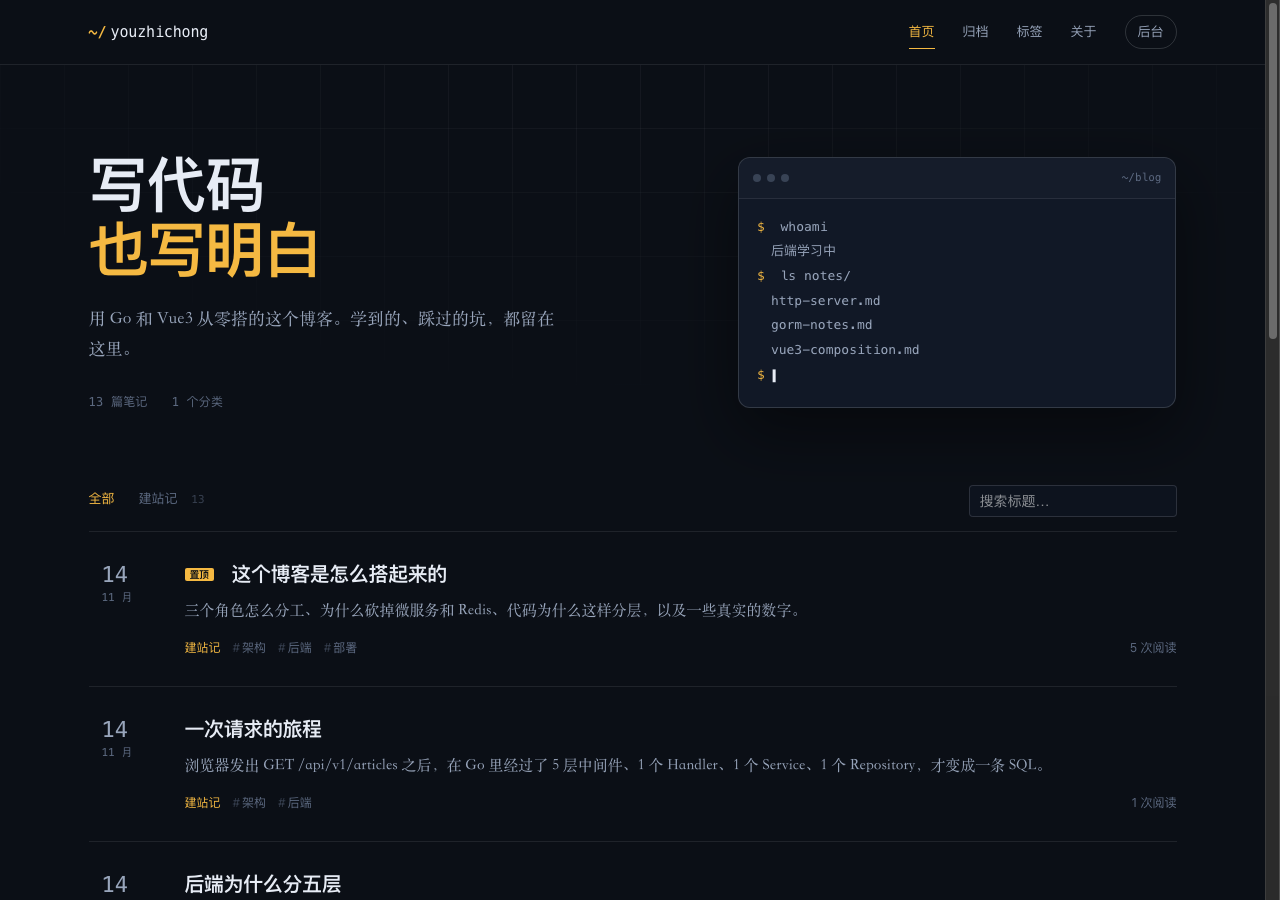
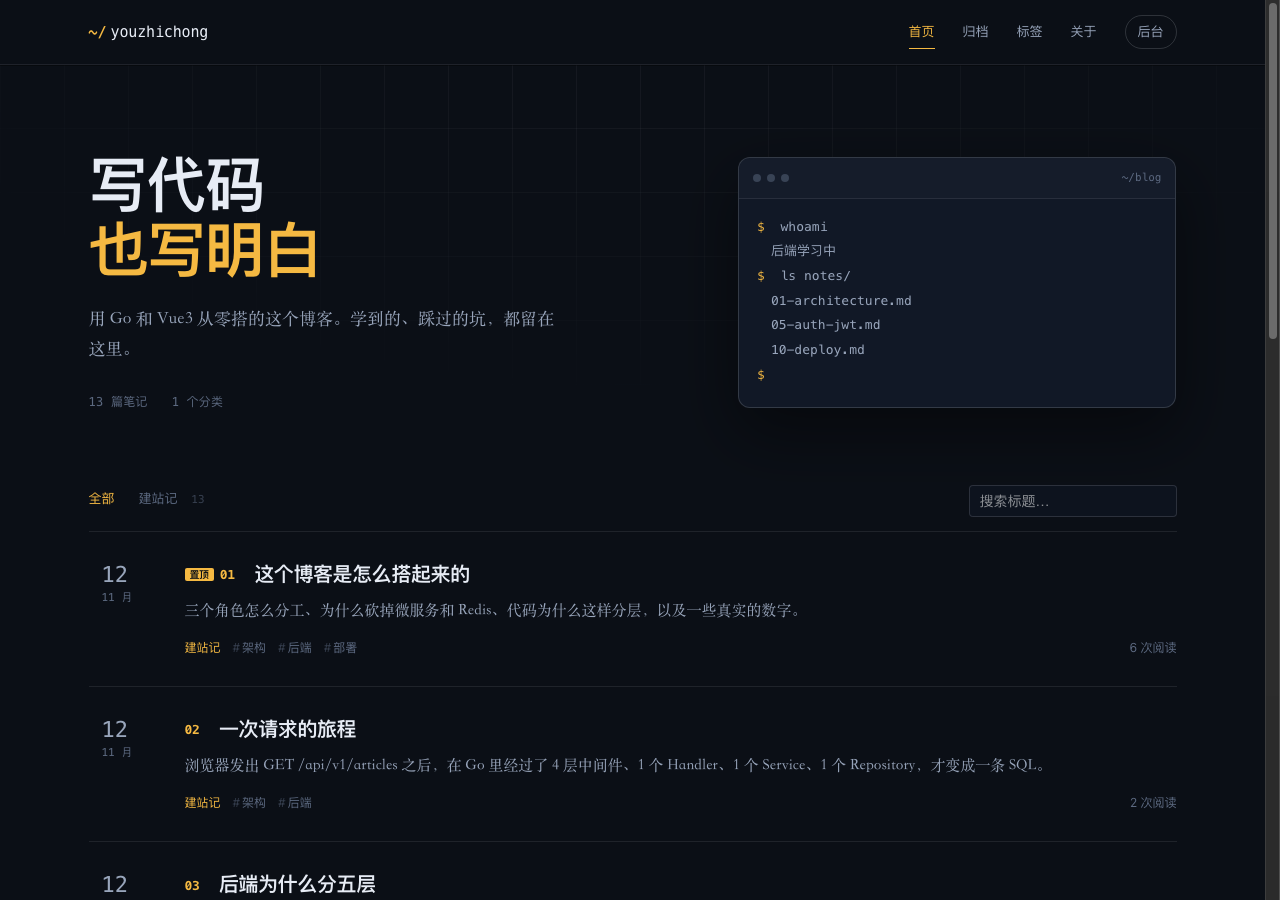
AI: #000000 优化系列文章序号、发布时间与页面交互

diff --git a/frontend/src/views/About.vue b/frontend/src/views/About.vue
@@ -2,14 +2,14 @@
 // 关于页：静态介绍。真实项目里这块内容通常从后端 /site/info 读取，
 // 我们这里先写死，等需要在线编辑时再对接。
 const stack = [
-  { name: 'Go 1.26', desc: '后端语言' },
-  { name: 'Gin', desc: 'HTTP 框架' },
-  { name: 'GORM', desc: 'ORM / 数据访问' },
-  { name: 'MySQL 8.4', desc: '关系型数据库' },
-  { name: 'JWT', desc: '无状态认证' },
-  { name: 'Vue 3', desc: '前端框架' },
-  { name: 'Vite', desc: '构建工具' },
-  { name: 'Element Plus', desc: 'UI 组件库' },
+  { name: 'Go 1.26', desc: '后端语言', url: 'https://go.dev/' },
+  { name: 'Gin', desc: 'HTTP 框架', url: 'https://gin-gonic.com/' },
+  { name: 'GORM', desc: 'ORM / 数据访问', url: 'https://gorm.io/' },
+  { name: 'MySQL 8.4', desc: '关系型数据库', url: 'https://www.mysql.com/' },
+  { name: 'JWT', desc: '无状态认证', url: 'https://jwt.io/' },
+  { name: 'Vue 3', desc: '前端框架', url: 'https://vuejs.org/' },
+  { name: 'Vite', desc: '构建工具', url: 'https://vite.dev/' },
+  { name: 'Element Plus', desc: 'UI 组件库', url: 'https://element-plus.org/' },
 ]
 
 const lessons = [
@@ -48,7 +48,7 @@ const parts = [
   <div class="container">
     <header class="page-head">
       <h1>关于</h1>
-      <p class="muted">一个边学边做的博客系统</p>
+      <p class="muted">一个边学边做的博客系统 · 作者 陶文鑫</p>
     </header>
 
     <section class="card block">
@@ -71,11 +71,23 @@ const parts = [
     <section class="card block">
       <h2>技术栈</h2>
       <div class="stack">
-        <div v-for="item in stack" :key="item.name" class="stack-item">
-          <span class="stack-name">{{ item.name }}</span>
+        <a
+          v-for="item in stack"
+          :key="item.name"
+          class="stack-item"
+          :href="item.url"
+          target="_blank"
+          rel="noopener noreferrer"
+          :aria-label="`${item.name} 官网（新窗口打开）`"
+        >
+          <span class="stack-name">
+            {{ item.name }}
+            <span class="stack-arrow" aria-hidden="true">↗</span>
+          </span>
           <span class="muted">{{ item.desc }}</span>
-        </div>
+        </a>
       </div>
+      <p class="stack-hint muted">点击卡片访问对应技术栈官网</p>
     </section>
 
     <section class="card block">
@@ -189,6 +201,42 @@ code {
   padding: 0.75rem 0.875rem;
   border: 1px solid var(--line);
   border-radius: 0.375rem;
+  text-decoration: none;
+  color: inherit;
+  background: transparent;
+  transition:
+    transform 0.22s cubic-bezier(0.2, 0.7, 0.2, 1),
+    border-color 0.22s ease,
+    background-color 0.22s ease;
+}
+
+.stack-item:hover,
+.stack-item:focus-visible {
+  transform: translateY(-2px) scale(1.03);
+  border-color: var(--amber);
+  background: rgba(245, 185, 66, 0.06);
+  outline: none;
+}
+
+.stack-item:focus-visible {
+  box-shadow: 0 0 0 2px var(--amber);
+}
+
+.stack-arrow {
+  margin-left: 0.25rem;
+  font-size: 0.75rem;
+  color: var(--ink-3);
+  transition: color 0.22s ease;
+}
+
+.stack-item:hover .stack-arrow,
+.stack-item:focus-visible .stack-arrow {
+  color: var(--amber);
+}
+
+.stack-hint {
+  margin: 0.875rem 0 0;
+  font-size: 0.75rem;
 }
 
 .stack-item > span:last-child {

diff --git a/frontend/src/views/ArticleDetail.vue b/frontend/src/views/ArticleDetail.vue
@@ -25,6 +25,14 @@ const form = ref({ nickname: '', email: '', content: '' })
 // 用 computed：article 变化时自动重算，不用手动维护一份 html 状态。
 const contentHtml = computed(() => renderMarkdown(article.value?.content || ''))
 
+// 标题形如「04 六张表撑起一个博客」：序号单独渲染成琥珀色等宽字。
+// 没有序号的文章（例如后台随手写的）原样显示。
+const titleParts = computed(() => {
+  const raw = article.value?.title || ''
+  const m = raw.match(/^(\d{2})\s+(.+)$/)
+  return m ? { no: m[1], text: m[2] } : { no: '', text: raw }
+})
+
 async function load() {
   loading.value = true
   try {
@@ -38,8 +46,12 @@ async function load() {
         const list = await fetchArticles({
           category_id: article.value.category_id,
           page_size: 100,
+          order: 'asc',
         })
-        series.value = list.list || []
+        // 兜底再按发布时间正序排一次，保证系列目录永远是 01 → 13
+        series.value = [...(list.list || [])].sort(
+          (a, b) => new Date(a.published_at) - new Date(b.published_at),
+        )
       } catch {
         series.value = []
       }
@@ -107,7 +119,8 @@ onUnmounted(() => {
       <article class="article">
         <div class="article-head">
           <span v-if="article.is_top === 1" class="top-badge">置顶</span>
-          <h1 class="article-title">{{ article.title }}</h1>
+          <span v-if="titleParts.no" class="article-no">{{ titleParts.no }}</span>
+          <h1 class="article-title">{{ titleParts.text }}</h1>
         </div>
 
         <div class="article-meta">
@@ -242,6 +255,16 @@ onUnmounted(() => {
   background: var(--amber);
   border-radius: 0.125rem;
   padding: 0.0625rem 0.3125rem;
+}
+
+.article-no {
+  flex-shrink: 0;
+  margin-top: 0.5rem;
+  font-family: var(--font-mono);
+  font-size: clamp(1.125rem, 2vw, 1.5rem);
+  font-weight: 600;
+  color: var(--amber);
+  letter-spacing: -0.02em;
 }
 
 .article-title {
@@ -495,11 +518,6 @@ onUnmounted(() => {
   margin: 0;
   padding: 0;
   list-style: none;
-  counter-reset: series;
-}
-
-.series-list li {
-  counter-increment: series;
 }
 
 .series-link {
@@ -514,22 +532,11 @@ onUnmounted(() => {
   transition: color 0.15s ease;
 }
 
-.series-link::before {
-  content: counter(series, decimal-leading-zero);
-  font-family: var(--font-mono);
-  font-size: 0.6875rem;
-  color: var(--ink-3);
-}
-
 .series-link:hover {
   color: var(--ink);
 }
 
 .series-link--current {
-  color: var(--amber);
-}
-
-.series-link--current::before {
   color: var(--amber);
 }
 

diff --git a/frontend/src/views/Home.vue b/frontend/src/views/Home.vue
@@ -53,6 +53,17 @@ function syncToQuery() {
   router.replace({ path: '/', query })
 }
 
+// 文章标题统一写成「01 标题」，这里把序号和标题拆开，
+// 序号用琥珀色等宽字显示，标题保持正常排版。
+function withTitleParts(list) {
+  return (list || []).map((item) => {
+    const m = String(item.title || '').match(/^(\d{2})\s+(.+)$/)
+    return m
+      ? { ...item, chapter: m[1], displayTitle: m[2] }
+      : { ...item, chapter: '', displayTitle: item.title }
+  })
+}
+
 async function loadArticles() {
   loading.value = true
   try {
@@ -63,8 +74,10 @@ async function loadArticles() {
       category_id: categoryId.value || undefined,
       tag_id: tagId.value || undefined,
       month: month.value || undefined,
+      // 系列文章按发布时间正序：01 → 13，和阅读顺序一致
+      order: 'asc',
     })
-    articles.value = data.list || []
+    articles.value = withTitleParts(data.list)
     total.value = data.total || 0
   } finally {
     loading.value = false
@@ -196,7 +209,8 @@ onMounted(() => {
             <div class="post-main">
               <h2 class="post-title">
                 <span v-if="item.is_top === 1" class="pin">置顶</span>
-                {{ item.title }}
+                <span v-if="item.chapter" class="post-no">{{ item.chapter }}</span>
+                {{ item.displayTitle }}
               </h2>
               <p class="post-summary">{{ item.summary || '（暂无摘要）' }}</p>
 
@@ -482,6 +496,15 @@ onMounted(() => {
 
 .post-link:hover .post-day {
   color: var(--amber);
+}
+
+.post-no {
+  font-family: var(--font-mono);
+  font-size: 0.8125rem;
+  font-weight: 600;
+  color: var(--amber);
+  margin-right: 0.5rem;
+  vertical-align: 0.125em;
 }
 
 .post-title {

diff --git a/frontend/src/layouts/DefaultLayout.vue b/frontend/src/layouts/DefaultLayout.vue
@@ -51,7 +51,7 @@ watch(
 
     <footer class="site-footer">
       <div class="container footer-inner">
-        <span class="mono-tag">youzhichong.xyz</span>
+        <span class="mono-tag">陶文鑫 · youzhichong.xyz</span>
         <span class="mono-tag">Go + Vue3 手搓</span>
         <span class="mono-tag">© 2026</span>
       </div>
@@ -70,10 +70,11 @@ watch(
   position: sticky;
   top: 0;
   z-index: 50;
-  background: rgba(11, 15, 22, 0.72);
-  backdrop-filter: blur(12px);
-  -webkit-backdrop-filter: blur(12px);
+  /* 不用半透明：滚动时正文会从导航栏底下透出来，读起来很脏。
+     纯色底 + 一条细线，滚动时内容被完全挡住。 */
+  background: var(--bg);
   border-bottom: 1px solid var(--line);
+  box-shadow: 0 1px 0 rgba(0, 0, 0, 0.35);
 }
 
 .header-inner {

diff --git a/backend/internal/repository/article_repo.go b/backend/internal/repository/article_repo.go
@@ -34,6 +34,8 @@ type ArticleFilter struct {
 	PublishedMonth string
 	Page           int
 	PageSize       int
+	// OrderAsc 为 true 时按发布时间正序（系列文章 01→13），默认倒序（最新在前）
+	OrderAsc bool
 }
 
 // build 每次返回一个干净的链式对象。
@@ -73,6 +75,11 @@ func (r *ArticleRepository) List(f ArticleFilter) ([]model.Article, int64, error
 		return nil, 0, err
 	}
 
+	order := "is_top DESC, published_at DESC"
+	if f.OrderAsc {
+		order = "published_at ASC"
+	}
+
 	var list []model.Article
 	err := r.build(f).
 		Select("id", "title", "summary", "cover", "status", "is_top",
@@ -81,7 +88,7 @@ func (r *ArticleRepository) List(f ArticleFilter) ([]model.Article, int64, error
 		Preload("Category").
 		Preload("Author").
 		Preload("Tags").
-		Order("is_top DESC, published_at DESC").
+		Order(order).
 		Limit(f.PageSize).
 		Offset((f.Page - 1) * f.PageSize).
 		Find(&list).Error

diff --git a/backend/internal/handler/article_handler.go b/backend/internal/handler/article_handler.go
@@ -54,6 +54,8 @@ type ListArticleQuery struct {
 	TagID      uint64 `form:"tag_id" binding:"omitempty,gte=1"`
 	// 归档页用：?month=2026-11
 	Month string `form:"month" binding:"omitempty,len=7"`
+	// 排序：asc=按发布时间正序（系列阅读顺序），不传=最新在前
+	Order string `form:"order" binding:"omitempty,oneof=asc desc"`
 }
 
 // articleRequest 是「新建/编辑文章」的请求体，给前端传的 JSON 用的。
@@ -100,6 +102,7 @@ func (h *ArticleHandler) List(c *gin.Context) {
 		PublishedMonth: q.Month,
 		Page:           q.Page,
 		PageSize:       q.PageSize,
+		OrderAsc:       q.Order == "asc",
 	})
 	if err != nil {
 		fail(c, err, "查询文章列表失败")

diff --git a/docs/articles/02-请求的旅程.md b/docs/articles/02-请求的旅程.md
@@ -1,5 +1,5 @@
 ---
-title: 一次请求的旅程
+title: 02 一次请求的旅程
 summary: 浏览器发出 GET /api/v1/articles 之后，在 Go 里经过了 4 层中间件、1 个 Handler、1 个 Service、1 个 Repository，才变成一条 SQL。
 category: 建站记
 tags: 后端, 架构
@@ -138,6 +138,8 @@ func (r *ArticleRepository) List(f ArticleFilter) ([]model.Article, int64, error
 ```
 
 `Preload` 会额外发三条查询（分类、作者、标签），加上主查询和 `Count`，一次列表请求固定 5 条 SQL，不是每篇文章一条。这是 `Preload` 的价值：把 N+1 压成常数。数据量大时，它也可能不如一次 join，选哪个要看真实耗时。
+
+后台和默认列表按 `is_top DESC, published_at DESC` 排序；首页传 `order=asc`，按发布时间正序展示系列文章（01 → 13），和阅读顺序一致。
 
 **这里有一个已知缺口**：Repository 的方法没有接收 `context.Context`，查询用的是 `r.db` 而不是 `r.db.WithContext(ctx)`。后果是客户端断开连接后，已经在跑的 SQL 不会被取消，慢查询会继续占着连接。正确做法是每个 Repository 方法都收 `ctx` 并传给 GORM，这是下一步要补的（第 13 篇也列了）。
 

diff --git a/docs/00-架构总览.md b/docs/00-架构总览.md
@@ -176,7 +176,7 @@ comments:  idx_article, idx_status
 | 方法 | 路径 | 说明 |
 |---|---|---|
 | GET | `/api/v1/ping` | 健康检查 |
-| GET | `/api/v1/articles` | 列表：`page` `page_size` `keyword` `category_id` `tag_id` `month` |
+| GET | `/api/v1/articles` | 列表：`page` `page_size` `keyword` `order` `category_id` `tag_id` `month` |
 | GET | `/api/v1/articles/:id` | 详情（阅读数 +1，草稿返回 404） |
 | GET | `/api/v1/categories` | 分类列表（含文章数） |
 | GET | `/api/v1/tags` | 标签列表（含文章数） |

diff --git a/docs/02-接口文档.md b/docs/02-接口文档.md
@@ -37,6 +37,7 @@ curl -s "$BASE/articles?page=1&page_size=10&keyword=Go&category_id=1&tag_id=2&mo
 | page | int | 页码，默认 1 |
 | page_size | int | 每页条数，默认 20，上限 100 |
 | keyword | string | 标题模糊搜索，最长 50 |
+| order | string | `asc` 按发布时间正序（系列阅读顺序）；不传=最新在前 |
 | category_id | int | 按分类筛选 |
 | tag_id | int | 按标签筛选 |
 | month | string | 按发布月份筛选，格式 `2026-11` |

diff --git a/docs/articles/12-上线实录.md b/docs/articles/12-上线实录.md
@@ -1,5 +1,5 @@
 ---
-title: 上线实录：一次 clientHold 与四层排障
+title: 12 上线实录：一次 clientHold 与四层排障
 summary: 从本地能跑到公网可访问用了两小时，真正卡住的不是代码，而是域名状态、安全组、编码和交叉编译。这篇按「层」复盘那天到底发生了什么。
 category: 建站记
 tags: 部署, 踩坑记录, 运维

diff --git a/docs/articles/11-生产配置与安全清单.md b/docs/articles/11-生产配置与安全清单.md
@@ -1,5 +1,5 @@
 ---
-title: 生产配置与安全清单
+title: 11 生产配置与安全清单
 summary: 同一个程序，dev 和 prod 是两套完全不同的默认值：调试接口要关、可信代理要配、密钥要换、数据库不能对外、进程不能用 root。逐项对照，别靠记忆。
 category: 建站记
 tags: 部署, 安全, 运维

diff --git a/docs/articles/08-前端如何消费后端.md b/docs/articles/08-前端如何消费后端.md
@@ -1,5 +1,5 @@
 ---
-title: 前端如何消费后端：路由与请求封装
+title: 08 前端如何消费后端：路由与请求封装
 summary: 布局父路由、路由懒加载、history 回退、axios 剥壳、Vite 代理、URL 里的筛选状态——以及为什么页面里最后只剩成功分支。
 category: 建站记
 tags: 前端, Vue, 架构
